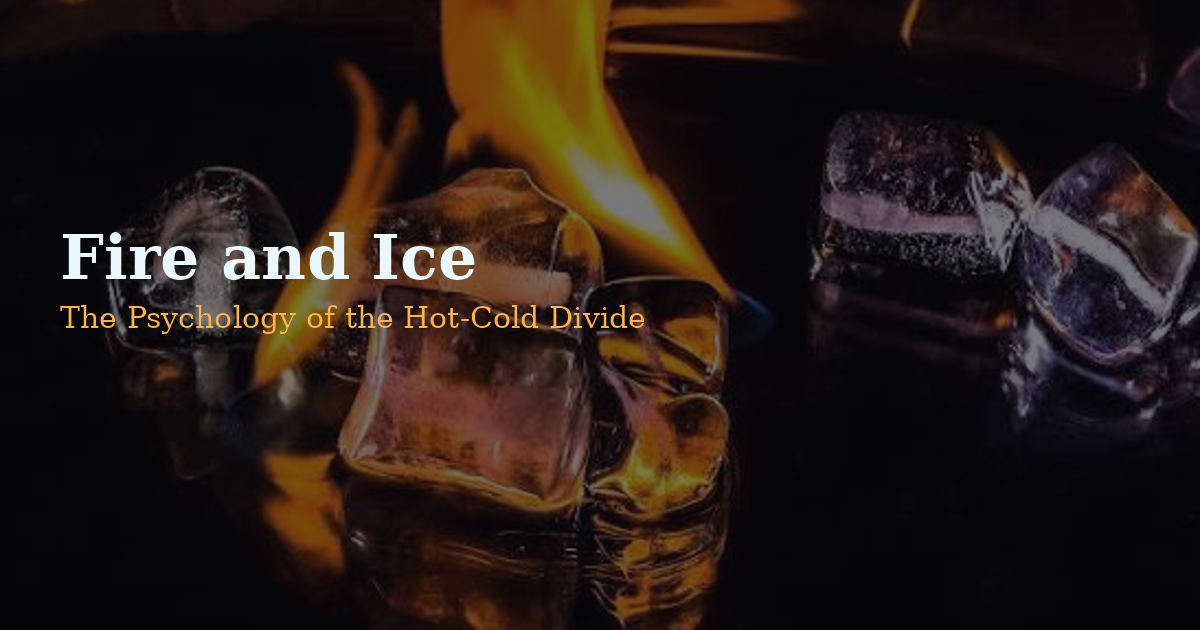
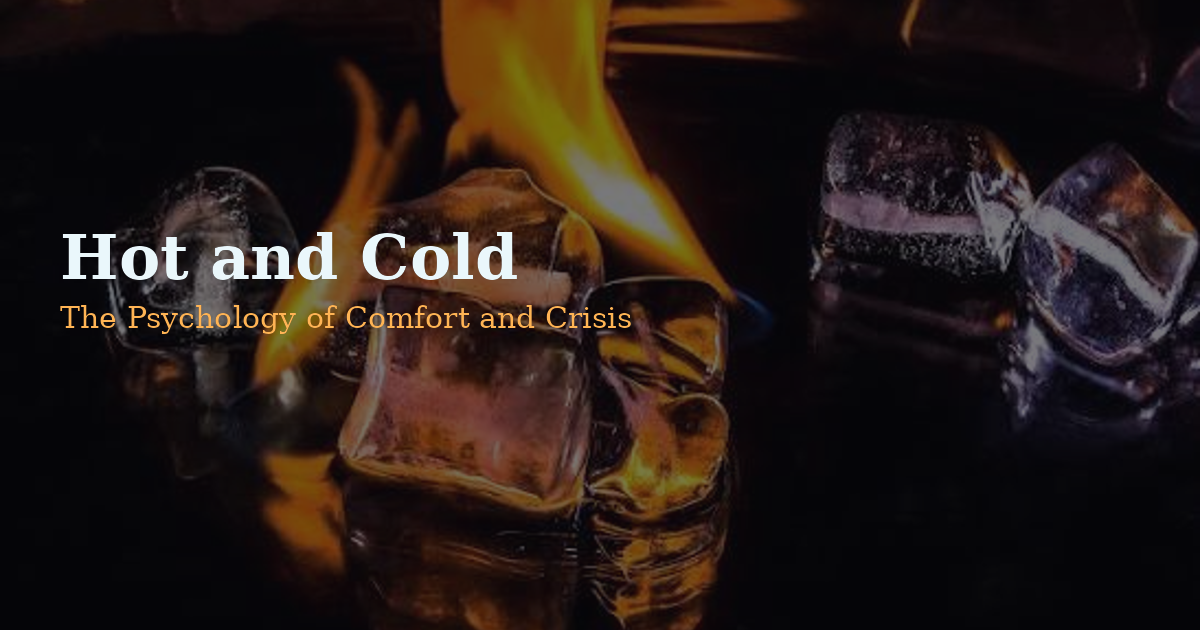
Add files via upload

Changed region(s): [[0.0617, 0.3619, 0.4317, 0.4524], [0.2775, 0.4825, 0.555, 0.5429]]

diff --git a/index.html b/index.html
@@ -18,30 +18,30 @@
 </script>
 
 <meta name="viewport" content="width=device-width, initial-scale=1.0">
-<title>Fire and Ice: The Psychology of the Hot-Cold Divide</title>
+<title>Hot and Cold: The Psychology of Comfort and Crisis</title>
 <meta name="description" content="Why comfort and crisis speak different languages: the hot-cold empathy gap, intermittent reinforcement, DARVO, and the divided self.">
 <meta name="keywords" content="hot cold empathy gap, intermittent reinforcement, DARVO, ego splitting, contempt Gottman, moral disengagement, psychology, Loewenstein">
-<link rel="canonical" href="https://sauerninja.github.io/fire-and-ice/">
+<link rel="canonical" href="https://sauerninja.github.io/Hot-Cold/">
 <meta name="robots" content="index, follow">
 <meta name="theme-color" content="#0a0a0f">
 
 <meta property="og:type" content="article">
-<meta property="og:site_name" content="Fire and Ice">
+<meta property="og:site_name" content="Hot and Cold">
 <meta property="og:locale" content="en_US">
-<meta property="og:title" content="Fire and Ice: The Psychology of the Hot-Cold Divide">
+<meta property="og:title" content="Hot and Cold: The Psychology of Comfort and Crisis">
 <meta property="og:description" content="Why comfort and crisis speak different languages — the hot-cold empathy gap, intermittent reinforcement, DARVO, and the divided self.">
-<meta property="og:image" content="https://sauerninja.github.io/fire-and-ice/og-image.png">
+<meta property="og:image" content="https://sauerninja.github.io/Hot-Cold/og-image.png?v=3">
 <meta property="og:image:type" content="image/png">
 <meta property="og:image:width" content="1200">
 <meta property="og:image:height" content="630">
-<meta property="og:image:alt" content="Fire and Ice: The Psychology of the Hot-Cold Divide — ice and flame over a dark reflective surface">
-<meta property="og:url" content="https://sauerninja.github.io/fire-and-ice/">
+<meta property="og:image:alt" content="Hot and Cold: The Psychology of Comfort and Crisis — ice and flame over a dark reflective surface">
+<meta property="og:url" content="https://sauerninja.github.io/Hot-Cold/">
 <meta property="article:published_time" content="2026-08-23">
 
 <meta name="twitter:card" content="summary_large_image">
-<meta name="twitter:title" content="Fire and Ice: The Psychology of the Hot-Cold Divide">
+<meta name="twitter:title" content="Hot and Cold: The Psychology of Comfort and Crisis">
 <meta name="twitter:description" content="Why comfort and crisis speak different languages — the hot-cold empathy gap, intermittent reinforcement, DARVO, and the divided self.">
-<meta name="twitter:image" content="https://sauerninja.github.io/fire-and-ice/og-image.png">
+<meta name="twitter:image" content="https://sauerninja.github.io/Hot-Cold/og-image.png?v=3">
 
 <link rel="icon" type="image/png" href="favicon.png">
 <link rel="apple-touch-icon" href="favicon.png">
@@ -51,24 +51,24 @@
 {
   "@context": "https://schema.org",
   "@type": "Article",
-  "headline": "Fire and Ice: The Psychology of the Hot-Cold Divide",
+  "headline": "Hot and Cold: The Psychology of Comfort and Crisis",
   "description": "A research article on the hot-cold empathy gap, intermittent reinforcement, DARVO, and the divided self.",
-  "image": "https://sauerninja.github.io/fire-and-ice/og-image.png",
+  "image": "https://sauerninja.github.io/Hot-Cold/og-image.png",
   "author": {"@type": "Person", "name": "Setvin Noether", "url": "https://github.com/SauerNinja"},
-  "publisher": {"@type": "Organization", "name": "Fire and Ice", "logo": {"@type": "ImageObject", "url": "https://sauerninja.github.io/fire-and-ice/favicon.png"}},
+  "publisher": {"@type": "Organization", "name": "Hot and Cold", "logo": {"@type": "ImageObject", "url": "https://sauerninja.github.io/Hot-Cold/favicon.png"}},
   "datePublished": "2026-08-23",
   "dateModified": "2026-08-23",
   "wordCount": 18543,
   "timeRequired": "PT127M",
-  "mainEntityOfPage": "https://sauerninja.github.io/fire-and-ice/"
+  "mainEntityOfPage": "https://sauerninja.github.io/Hot-Cold/"
 }
 </script>
 <script type="application/ld+json">
 {
   "@context": "https://schema.org",
   "@type": "WebSite",
-  "name": "Fire and Ice",
-  "url": "https://sauerninja.github.io/fire-and-ice/"
+  "name": "Hot and Cold",
+  "url": "https://sauerninja.github.io/Hot-Cold/"
 }
 </script>
 <script type="application/ld+json">
@@ -76,8 +76,8 @@
   "@context": "https://schema.org",
   "@type": "BreadcrumbList",
   "itemListElement": [
-    {"@type": "ListItem", "position": 1, "name": "Home", "item": "https://sauerninja.github.io/fire-and-ice/"},
-    {"@type": "ListItem", "position": 2, "name": "Fire and Ice: The Psychology of the Hot-Cold Divide", "item": "https://sauerninja.github.io/fire-and-ice/"}
+    {"@type": "ListItem", "position": 1, "name": "Home", "item": "https://sauerninja.github.io/Hot-Cold/"},
+    {"@type": "ListItem", "position": 2, "name": "Hot and Cold: The Psychology of Comfort and Crisis", "item": "https://sauerninja.github.io/Hot-Cold/"}
   ]
 }
 </script>
@@ -251,7 +251,7 @@
 <div id="progress-bar"></div>
 
 <nav class="top-nav">
-  <span class="nav-brand">Fire<span>&amp;</span>Ice</span>
+  <span class="nav-brand">Hot<span>&amp;</span>Cold</span>
 </nav>
 
 <div class="hero-wrap">
@@ -260,7 +260,7 @@
 
 <div class="title-block">
   <div class="eyebrow">Psychology &middot; Behavioral Economics</div>
-  <h1>Fire and Ice: The Psychology of the Hot-Cold Divide</h1>
+  <h1>Hot and Cold: The Psychology of Comfort and Crisis</h1>
   <p class="subtitle">Why the comfortable cannot feel the crisis of the cold — and why the cold cannot perform for the comfort of the warm.</p>
   <p class="meta-row">A research article <span class="dot">&middot;</span> ~127 min read</p>
 </div>
@@ -963,20 +963,20 @@
 
   <div class="share-bar">
     <span>SHARE</span>
-    <a href="https://twitter.com/intent/tweet?url=https://sauerninja.github.io/fire-and-ice/&text=Fire%20and%20Ice%3A%20The%20Psychology%20of%20the%20Hot-Cold%20Divide" aria-label="Share on X" target="_blank" rel="noopener">
+    <a href="https://twitter.com/intent/tweet?url=https://sauerninja.github.io/Hot-Cold/&text=Hot%20and%20Cold%3A%20The%20Psychology%20of%20the%20Hot-Cold%20Divide" aria-label="Share on X" target="_blank" rel="noopener">
       <svg viewBox="0 0 24 24"><path d="M18.9 2H22l-7.6 8.7L23 22h-6.9l-5.4-6.6L4.5 22H1.3l8.1-9.3L1 2h7l4.9 6.1L18.9 2Zm-1.2 18h1.9L7.4 4H5.4l12.3 16Z"/></svg>
     </a>
-    <a href="https://www.reddit.com/submit?url=https://sauerninja.github.io/fire-and-ice/&title=Fire%20and%20Ice%3A%20The%20Psychology%20of%20the%20Hot-Cold%20Divide" aria-label="Share on Reddit" target="_blank" rel="noopener">
+    <a href="https://www.reddit.com/submit?url=https://sauerninja.github.io/Hot-Cold/&title=Hot%20and%20Cold%3A%20The%20Psychology%20of%20the%20Hot-Cold%20Divide" aria-label="Share on Reddit" target="_blank" rel="noopener">
   <svg viewBox="0 0 24 24"><path d="M12 0A12 12 0 0 0 0 12a12 12 0 0 0 12 12 12 12 0 0 0 12-12A12 12 0 0 0 12 0zm5.01 4.744c.688 0 1.25.561 1.25 1.249a1.25 1.25 0 0 1-2.498.056l-2.597-.547-.8 3.747c1.824.07 3.48.632 4.674 1.488.308-.309.73-.491 1.207-.491.968 0 1.754.786 1.754 1.754 0 .716-.435 1.333-1.01 1.614a3.111 3.111 0 0 1 .042.52c0 2.694-3.13 4.87-7.004 4.87-3.874 0-7.004-2.176-7.004-4.87 0-.183.015-.366.043-.534A1.748 1.748 0 0 1 4.028 12c0-.968.786-1.754 1.754-1.754.463 0 .898.196 1.207.49 1.207-.883 2.878-1.43 4.744-1.487l.885-4.182a.342.342 0 0 1 .14-.197.35.35 0 0 1 .238-.042l2.906.617a1.214 1.214 0 0 1 1.108-.701zM9.25 12C8.561 12 8 12.562 8 13.25c0 .687.561 1.248 1.25 1.248.687 0 1.248-.561 1.248-1.249 0-.688-.561-1.249-1.249-1.249zm5.5 0c-.687 0-1.248.561-1.248 1.25 0 .687.561 1.248 1.249 1.248.688 0 1.249-.561 1.249-1.249 0-.687-.562-1.249-1.25-1.249zm-5.466 3.99a.327.327 0 0 0-.231.094.33.33 0 0 0 0 .463c.842.842 2.484.913 2.961.913.477 0 2.105-.056 2.961-.913a.361.361 0 0 0 .029-.463.33.33 0 0 0-.464 0c-.547.533-1.684.73-2.512.73-.828 0-1.979-.196-2.512-.73a.326.326 0 0 0-.232-.095z" fill="#FF4500"/></svg>
     </a>
-    <a href="mailto:?subject=Fire%20and%20Ice&body=https://sauerninja.github.io/fire-and-ice/" aria-label="Share by email">
+    <a href="mailto:?subject=Hot%20and%20Cold&body=https://sauerninja.github.io/Hot-Cold/" aria-label="Share by email">
       <svg viewBox="0 0 24 24"><path d="M2 4h20v16H2V4Zm2 2v.2l8 6.4 8-6.4V6H4Zm16 2.5-7.4 5.9a1 1 0 0 1-1.2 0L4 8.5V18h16V8.5Z"/></svg>
     </a>
   </div>
 </main>
 
 <footer>
-  <p>&copy; 2026 Fire &amp; Ice. Research article based on thoughts by Setvin Noether (<a href="https://github.com/SauerNinja" target="_blank" rel="noopener">@SauerNinja</a>).</p>
+  <p>&copy; 2026 Hot &amp; Cold. Research article based on thoughts by Setvin Noether (<a href="https://github.com/SauerNinja" target="_blank" rel="noopener">@SauerNinja</a>).</p>
 </footer>
 
 <div id="cookie-banner">

diff --git a/README.md b/README.md
@@ -1,6 +1,6 @@
-![Fire and Ice hero image](hero.png)
+![Hot and Cold hero image](hero.png)
 
-# Fire and Ice: The Psychology of the Hot-Cold Divide
+# Hot and Cold: The Psychology of Comfort and Crisis
 
 This is a research article based on thoughts by Setvin Noether (@SauerNinja) exploring why comfort and crisis so often fail to understand each other. It traces the hot-cold empathy gap (George Loewenstein) through intermittent reinforcement and reward-prediction-error dopamine research, DARVO and moral disengagement (Jennifer Freyd, Albert Bandura), John Gottman's research on contempt, the psychology of the divided self (Freud, Goffman, Winnicott, Laing), and behavioral extinction theory — closing with a set of honestly stated open questions about the limits of the framework.
 
